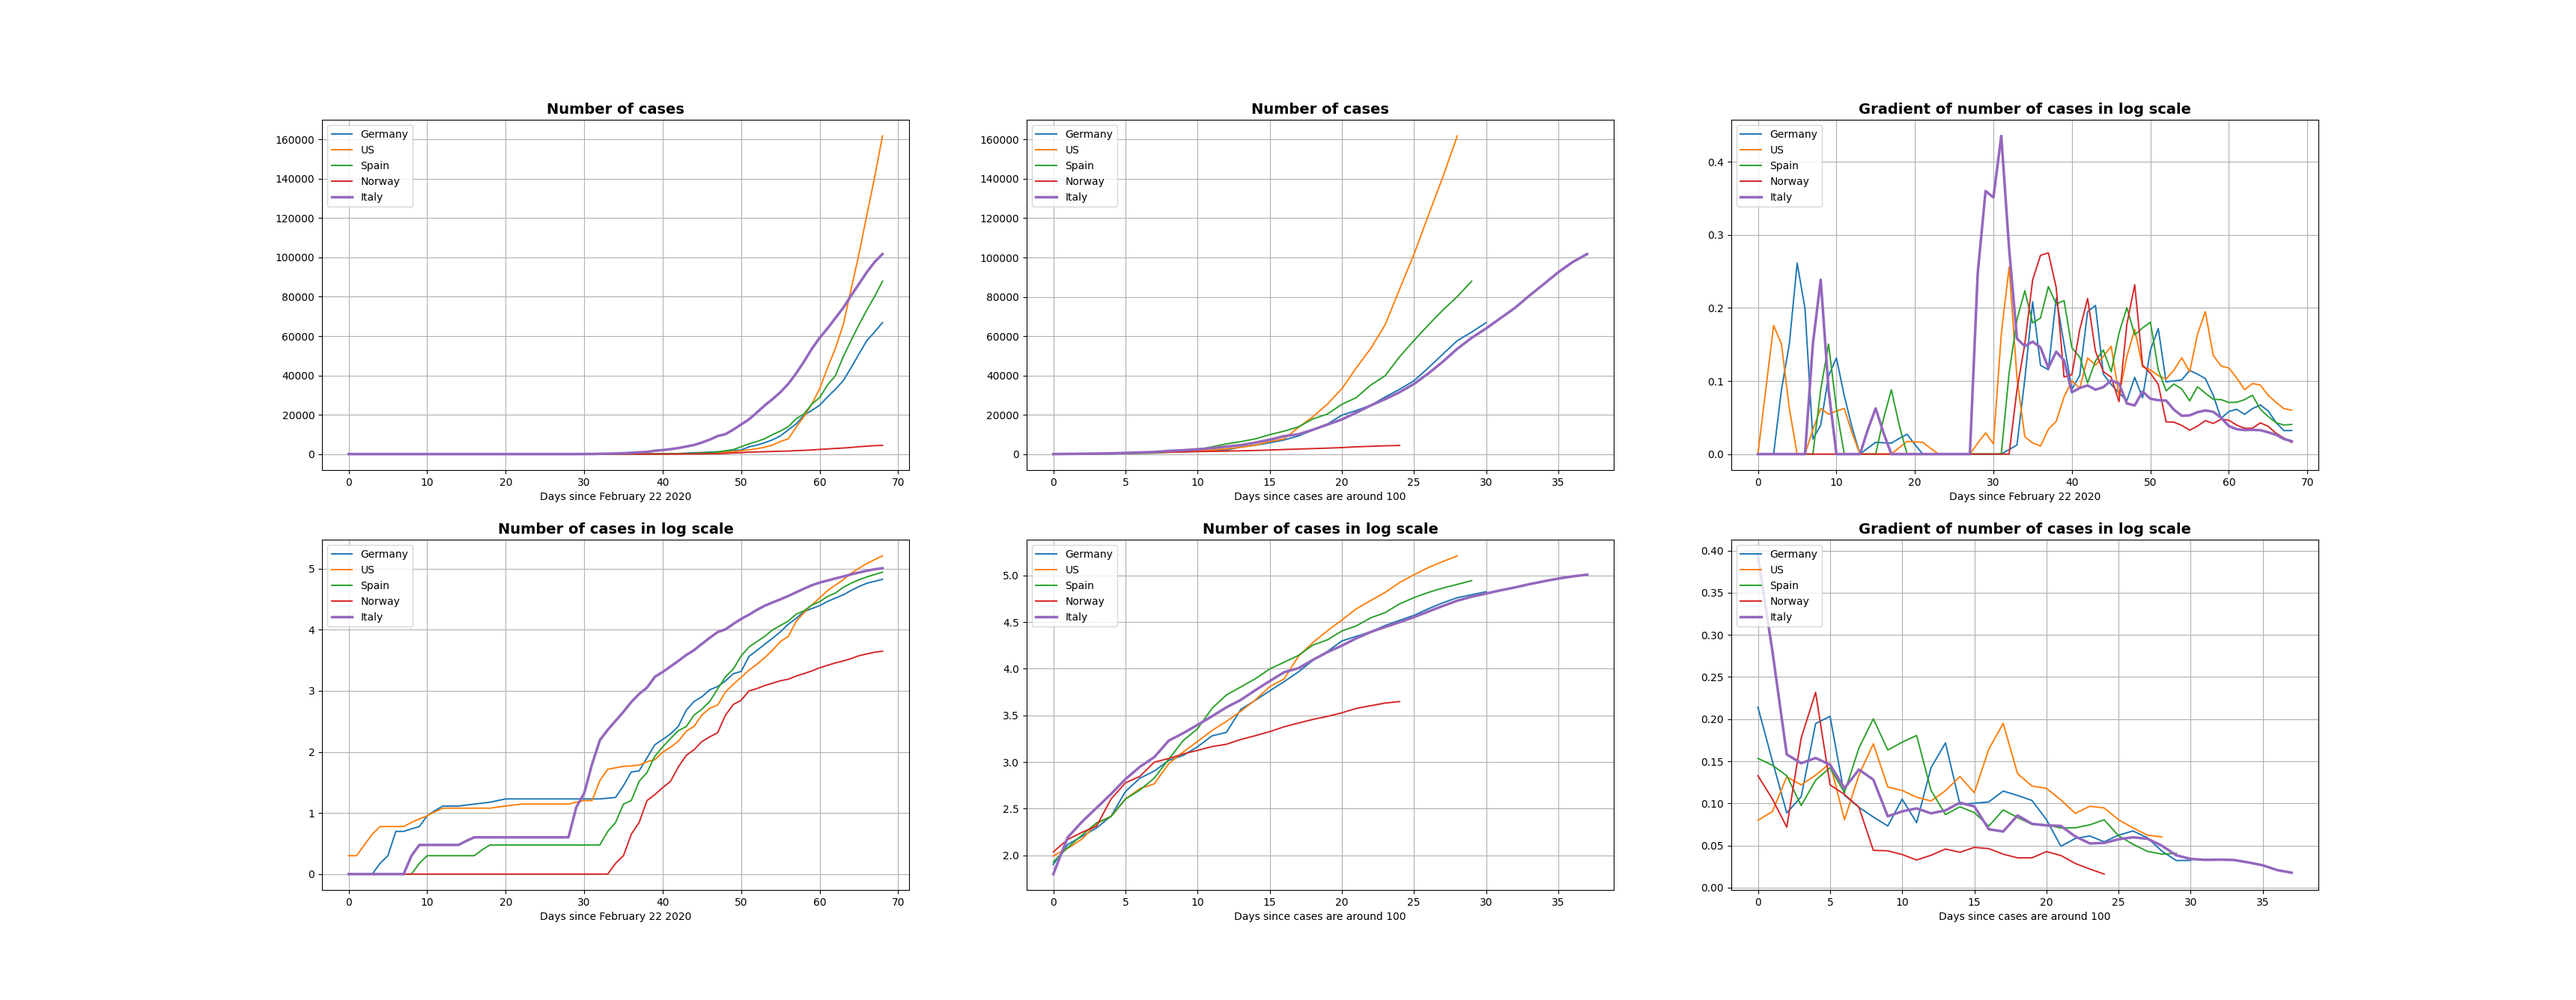
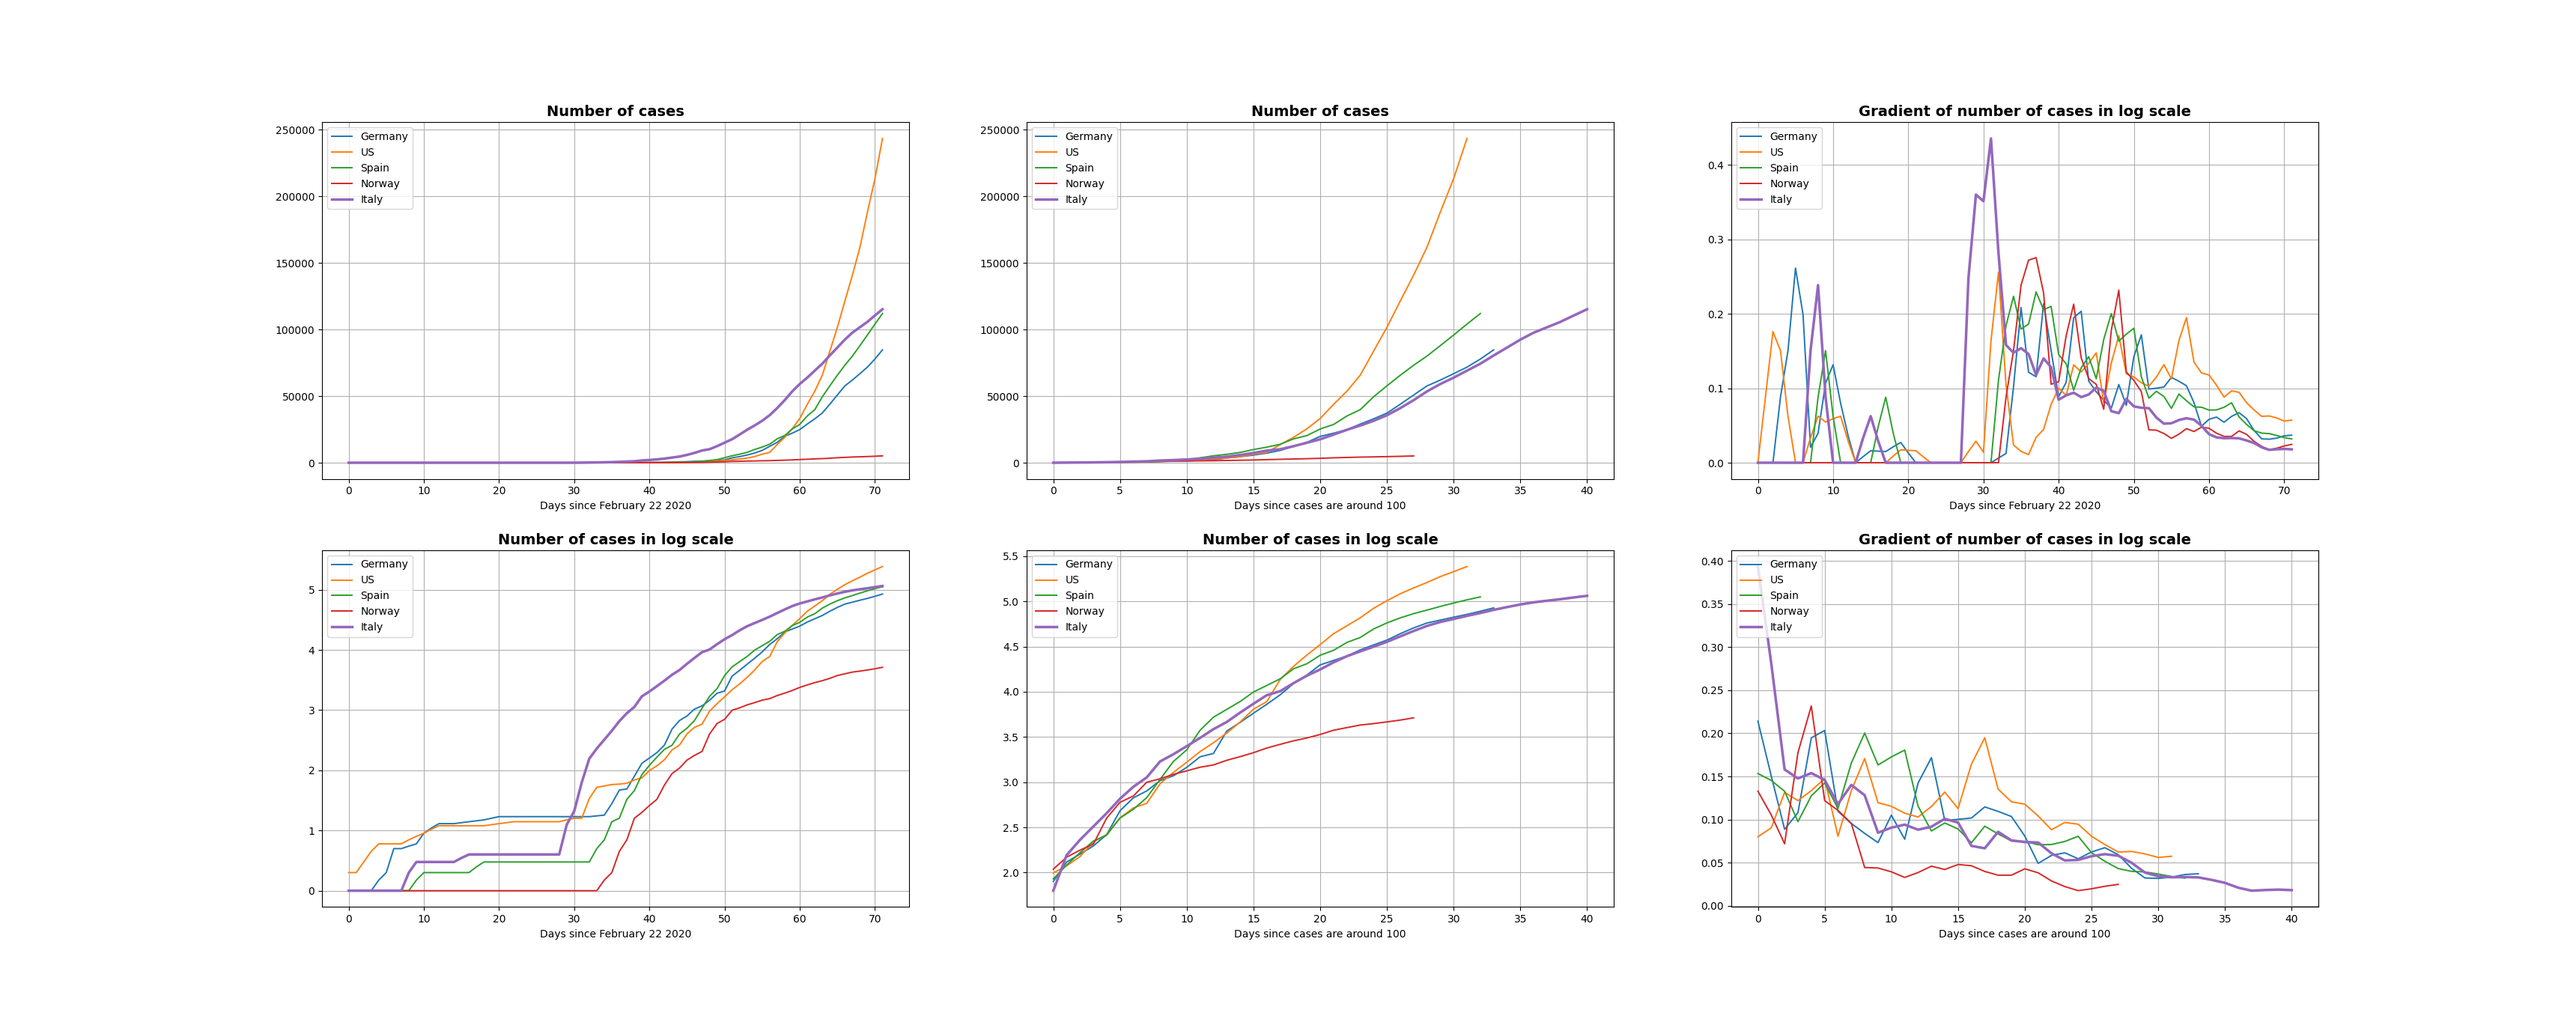
Track global numbers

diff --git a/utils/plot.py b/utils/plot.py
@@ -1,9 +1,11 @@
 import matplotlib.pyplot as plt
 import numpy as np
 
-def plot(confirmed, align_indexes, align_around, title):
+def plot(confirmed, align_indexes=None, align_around=None, title=""):
     # Simple graph
-    plt.subplot(2, 3, 1)
+    num_rows_plot = 2 if align_indexes is not None else 3
+    num_cols_plot = 3 if align_indexes is not None else 1
+    plt.subplot(num_rows_plot, num_cols_plot, 1)
     for c, v in confirmed.items():
         if c == "Italy" or c == "VA":
             linewidth = 2.5
@@ -17,21 +19,25 @@ def plot(confirmed, align_indexes, align_around, title):
     plt.grid()
 
     # Simple aligned
-    plt.subplot(2, 3, 2)
-    for c, v in confirmed.items():
-        if c == "Italy" or c == "VA":
-            linewidth = 2.5
-        else:
-            linewidth = 1.4
-        plt.plot(v[align_indexes[c]:], label=c, linewidth=linewidth)
-        
-    plt.legend(loc="upper left")
-    plt.title(f"Number of {title}", fontsize=14, fontweight='bold')
-    plt.xlabel(f"Days since cases are around {align_around}")
-    plt.grid()
+    if align_indexes is not None:
+        plt.subplot(num_rows_plot, num_cols_plot, 2)
+        for c, v in confirmed.items():
+            if c == "Italy" or c == "VA":
+                linewidth = 2.5
+            else:
+                linewidth = 1.4
+            plt.plot(v[align_indexes[c]:], label=c, linewidth=linewidth)
+            
+        plt.legend(loc="upper left")
+        plt.title(f"Number of {title}", fontsize=14, fontweight='bold')
+        plt.xlabel(f"Days since cases are around {align_around}")
+        plt.grid()
 
     # Logarithm Gradient
-    plt.subplot(2, 3, 3)
+    if align_around is not None:
+        plt.subplot(num_rows_plot, num_cols_plot, 3)
+    else:
+        plt.subplot(num_rows_plot, num_cols_plot, 2)
     for c, v in confirmed.items():
         if c == "Italy" or c == "VA":
             linewidth = 2.5
@@ -48,7 +54,10 @@ def plot(confirmed, align_indexes, align_around, title):
     plt.grid()
 
     # Logarithm
-    plt.subplot(2, 3, 4)
+    if align_around is not None:
+        plt.subplot(num_rows_plot, num_cols_plot, 4)
+    else:
+        plt.subplot(num_rows_plot, num_cols_plot, 3)
     for c, v in confirmed.items():
         if c == "Italy" or c == "VA":
             linewidth = 2.5
@@ -63,36 +72,38 @@ def plot(confirmed, align_indexes, align_around, title):
     plt.grid()
 
     # Logarithm aligned
-    plt.subplot(2, 3, 5)
-    for c, v in confirmed.items():
-        if c == "Italy" or c == "VA":
-            linewidth = 2.5
-        else:
-            linewidth = 1.4
-        array = np.array(v)
-        plt.plot(np.log10(array[align_indexes[c]:]+1), label=c, linewidth=linewidth)
+    if align_indexes is not None:
+        plt.subplot(num_rows_plot, num_cols_plot, 5)
+        for c, v in confirmed.items():
+            if c == "Italy" or c == "VA":
+                linewidth = 2.5
+            else:
+                linewidth = 1.4
+            array = np.array(v)
+            plt.plot(np.log10(array[align_indexes[c]:]+1), label=c, linewidth=linewidth)
 
-    plt.legend(loc="upper left")
-    plt.title(f"Number of {title} in log scale", fontsize=14, fontweight='bold')
-    plt.xlabel(f"Days since cases are around {align_around}")
-    plt.grid()
+        plt.legend(loc="upper left")
+        plt.title(f"Number of {title} in log scale", fontsize=14, fontweight='bold')
+        plt.xlabel(f"Days since cases are around {align_around}")
+        plt.grid()
 
     # Logarithm aligned Gradient
-    plt.subplot(2, 3, 6)
-    for c, v in confirmed.items():
-        if c == "Italy" or c == "VA":
-            linewidth = 2.5
-        else:
-            linewidth = 1.4
-        array = np.array(v)
-        alinged_array = array[align_indexes[c]:]
-        log_array = np.log10(alinged_array+1)
-        array = np.gradient(log_array)
-        plt.plot(array, label=c, linewidth=linewidth)
+    if align_indexes is not None:
+        plt.subplot(num_rows_plot, num_cols_plot, 6)
+        for c, v in confirmed.items():
+            if c == "Italy" or c == "VA":
+                linewidth = 2.5
+            else:
+                linewidth = 1.4
+            array = np.array(v)
+            alinged_array = array[align_indexes[c]:]
+            log_array = np.log10(alinged_array+1)
+            array = np.gradient(log_array)
+            plt.plot(array, label=c, linewidth=linewidth)
 
-    plt.legend(loc="upper left")
-    plt.title(f"Gradient of number of {title} in log scale", fontsize=14, fontweight='bold')
-    plt.xlabel(f"Days since cases are around {align_around}")
-    plt.grid()
+        plt.legend(loc="upper left")
+        plt.title(f"Gradient of number of {title} in log scale", fontsize=14, fontweight='bold')
+        plt.xlabel(f"Days since cases are around {align_around}")
+        plt.grid()
 
     plt.show()

diff --git a/utils/country_data.py b/utils/country_data.py
@@ -2,6 +2,7 @@ from collections import defaultdict
 import json
 import sys
 import requests
+import numpy as np
 
 data = requests.get("https://pomber.github.io/covid19/timeseries.json").json()
 
@@ -24,6 +25,9 @@ def compute_countries_confirmed_cases() -> dict:
     all_countries = parse_countries()
     confirmed = defaultdict(list)
     confirmed_deaths = defaultdict(list)
+    world_cases = list()
+    world_deaths = list()
+    world_recovered = list()
     
     for c in all_countries:
         local_data_cases = [d.get("confirmed") for d in data[c]]
@@ -46,4 +50,18 @@ def compute_countries_confirmed_cases() -> dict:
 
         confirmed[c] = new_local_data_cases
         confirmed_deaths[c] = new_local_data_deaths
-    return confirmed, confirmed_deaths
+
+    for _, v in data.items():
+        cases = [d.get("confirmed") for d in v]
+        world_cases.append(cases)
+        deaths = [d.get("deaths") for d in v]
+        world_deaths.append(deaths)
+        recovered = [d.get("recovered") for d in v]
+        world_recovered.append(recovered)
+    
+    world_deaths = np.sum(np.array(world_deaths),0)
+    world_cases = np.sum(np.array(world_cases),0)    
+    world_recovered = np.sum(np.array(world_recovered),0)    
+    world_data = {"deaths":world_deaths, "cases":world_cases, "recovered":world_recovered}
+        
+    return confirmed, confirmed_deaths, world_data

diff --git a/run_countries.py b/run_countries.py
@@ -10,7 +10,7 @@ ALIGN_AROUND = 100 # cases
 
 if __name__ == "__main__":    
     # Compute the number of cases for each country
-    confirmed, confirmed_deaths = compute_countries_confirmed_cases()
+    confirmed, confirmed_deaths, world_data = compute_countries_confirmed_cases()
 
     # Compute maximum number of cases we can align around: min (ALIGN_AROUND, x)
     # Take the second biggest one
@@ -18,11 +18,11 @@ if __name__ == "__main__":
     minimums_deaths = [sorted(v)[-2] for c, v in confirmed_deaths.items()]
     new_align_around_cases = np.minimum(ALIGN_AROUND, np.min(minimums_cases))
     new_align_around_deaths = np.minimum(ALIGN_AROUND, np.min(minimums_deaths))
-
+   
     # Compute the index for each country in order to align around the same number of cases
     align_indexes_cases = defaultdict(list)
     align_indexes_deaths = defaultdict(list)
-
+   
     for c, v in confirmed.items():
         dist = np.abs(np.array(v) - new_align_around_cases)
         align_indexes_cases[c] = np.argmin(dist)
@@ -32,3 +32,4 @@ if __name__ == "__main__":
 
     plot(confirmed, align_indexes_cases, new_align_around_cases, "cases")
     plot(confirmed_deaths, align_indexes_deaths, new_align_around_deaths, "deaths")
+    plot(world_data, title="cases and deaths in the world")

diff --git a/README.md b/README.md
@@ -20,13 +20,15 @@ You can include other countries or provinces, if available, by just adding the n
 * ```python run_countries.py Japan```
 * ```python run_italy.py VE```
 
-## Results as of March 30th 2020
+## Results as of April 2nd 2020
 
 ### COUNTRIES
 #### Cases
 ![Cases](https://github.com/dariocazzani/COVID-19-trends/blob/master/images/image1.png)
 #### Deaths
 ![Deaths](https://github.com/dariocazzani/COVID-19-trends/blob/master/images/image2.png)
+#### World data
+![Deaths](https://github.com/dariocazzani/COVID-19-trends/blob/master/images/image4.png)
 
 ### PROVINCES
 #### Cases
